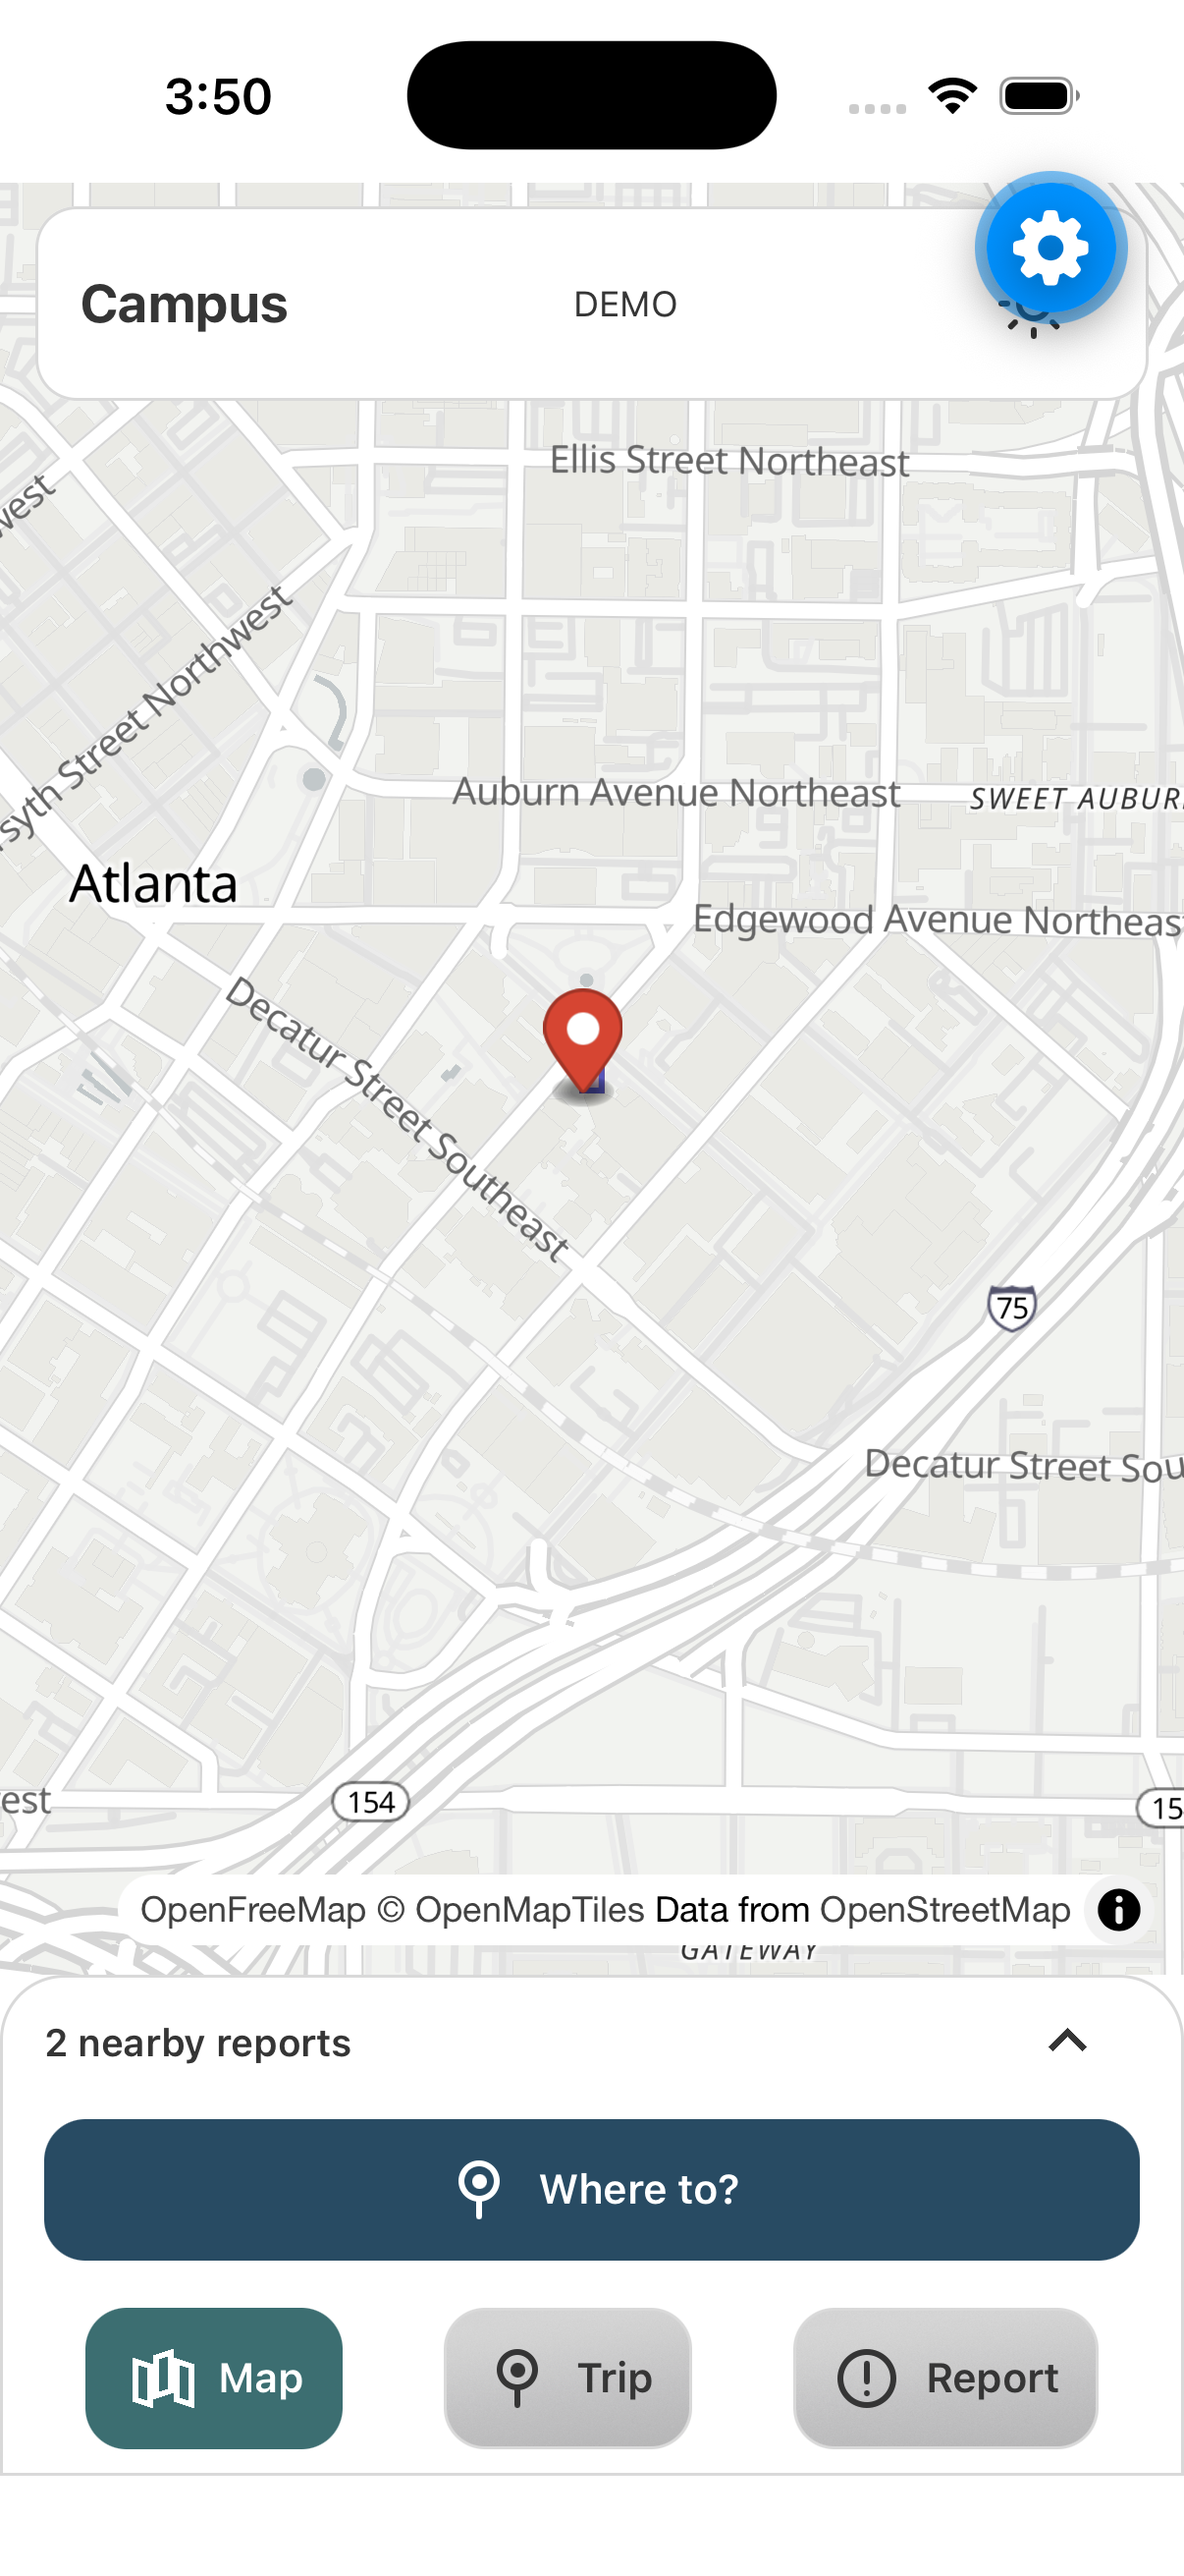
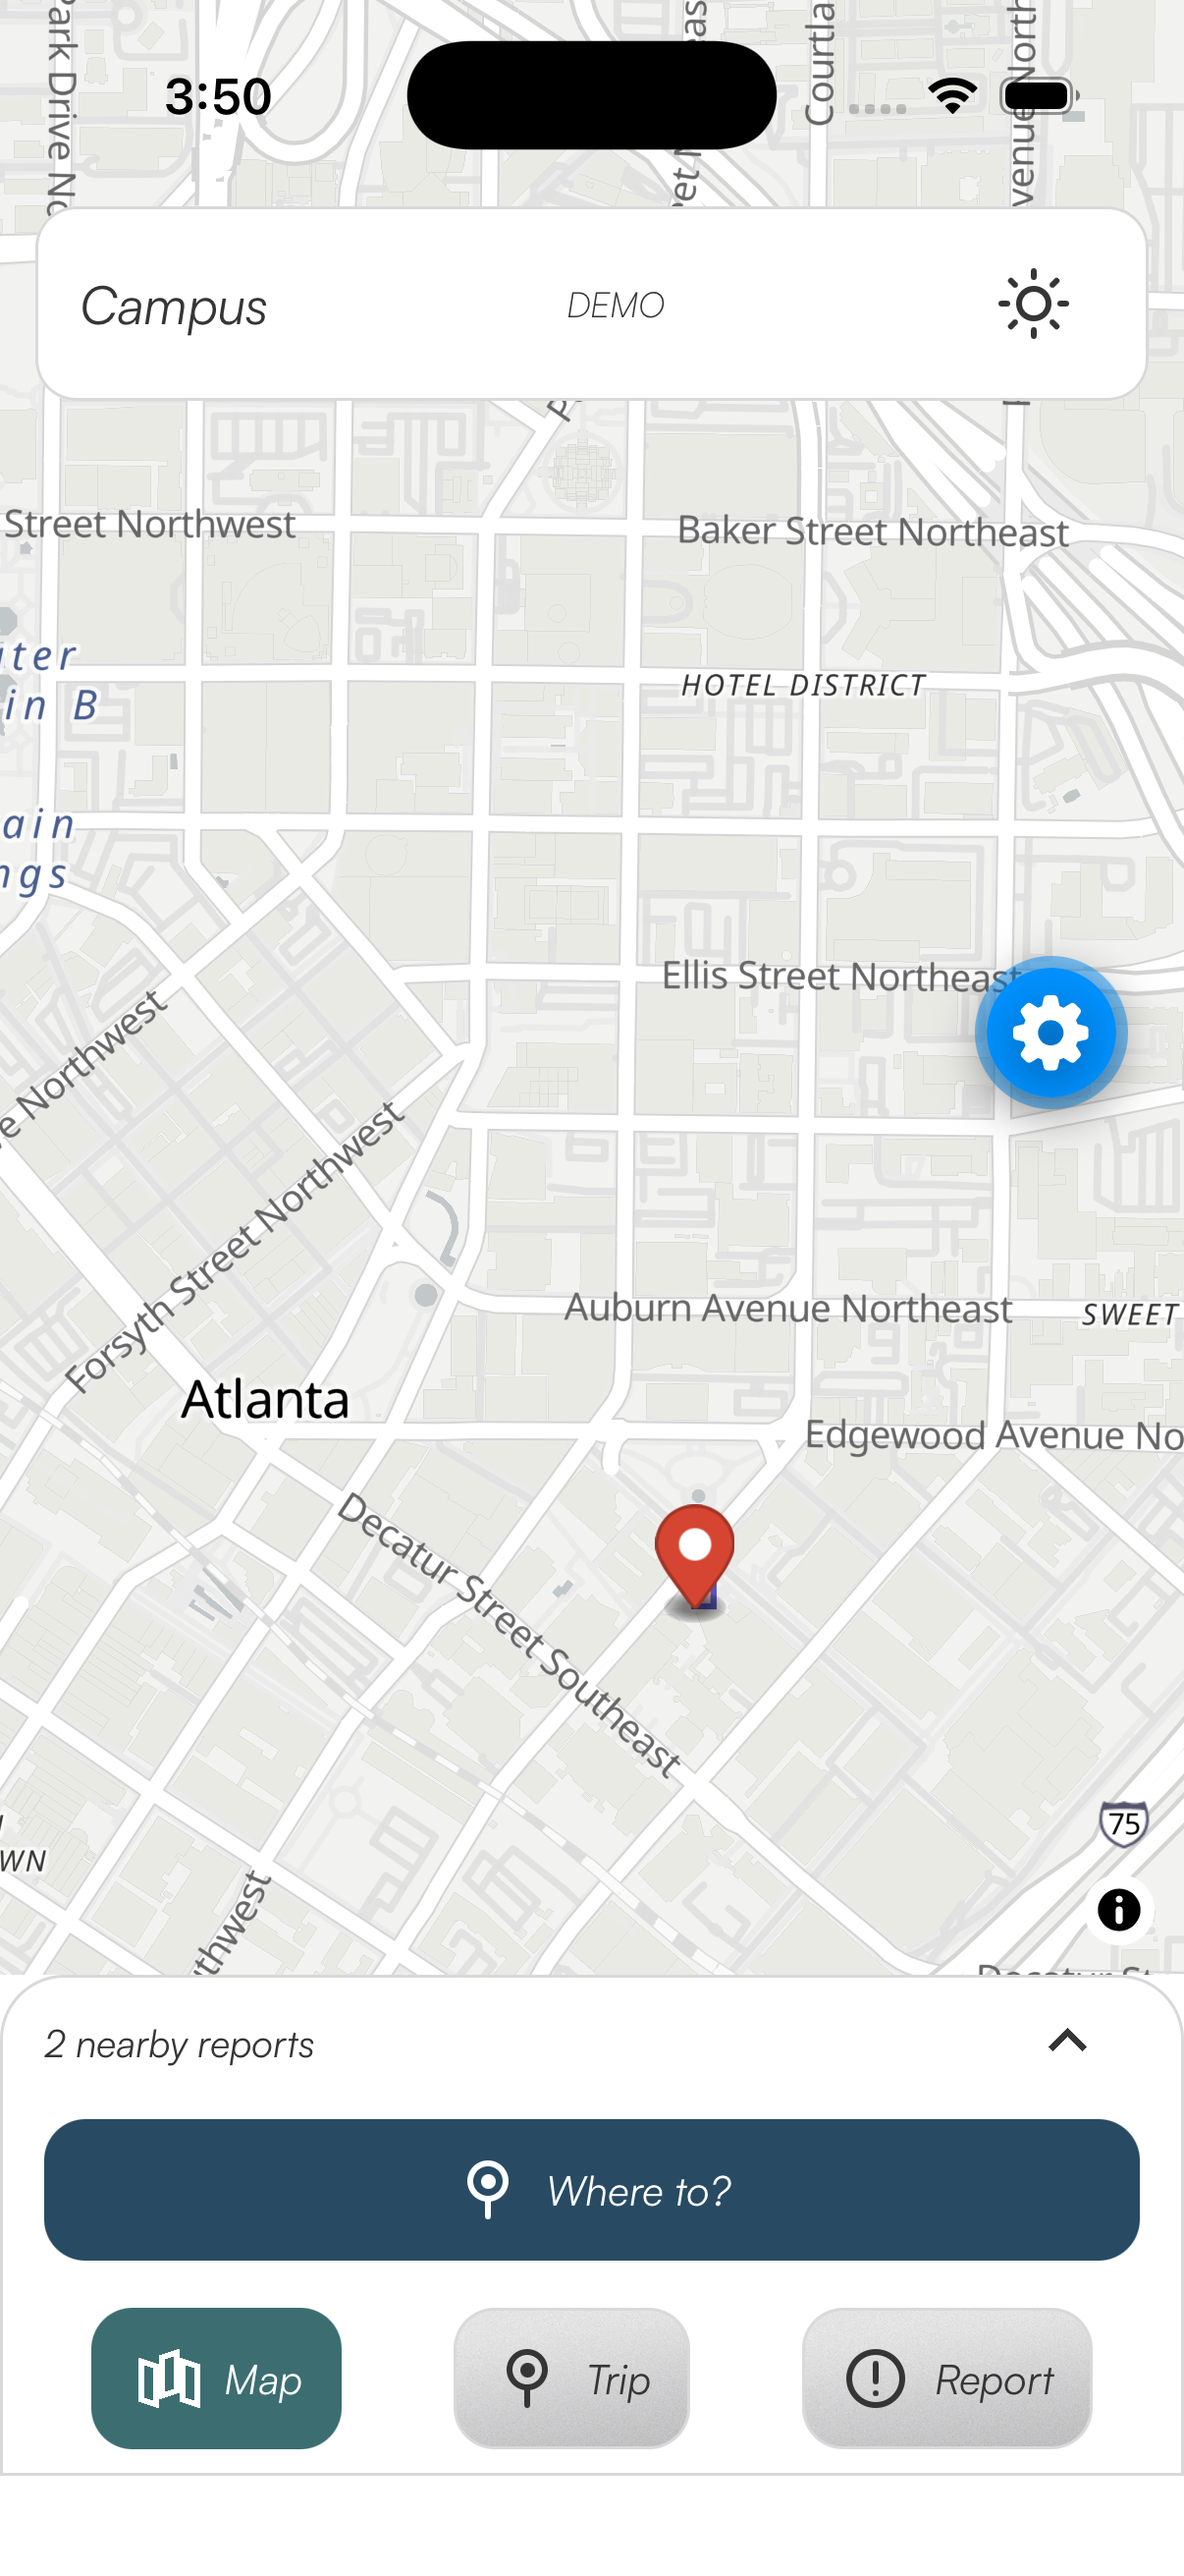
Extend map behind the status bar

diff --git a/mobile/App.tsx b/mobile/App.tsx
@@ -36,6 +36,9 @@ function CampusApp() {
   const [screen, setScreen] = useState<'map'|'report'|'route'>('map');
   const [expanded, setExpanded] = useState(false);
   const [dockHeight, setDockHeight] = useState(220);
+  const [pageHeight, setPageHeight] = useState(0);
+  const [safeFrame, setSafeFrame] = useState({ y: 0, height: 0 });
+  const bottomInset = Math.max(0, pageHeight - safeFrame.y - safeFrame.height);
   function openScreen(next: 'map' | 'report' | 'route') { setScreen(next); setExpanded(false); }
   const mapTheme = colorScheme;
   const ROUTE_COLORS = { ...routeColors(theme), shortest: mapTheme === 'dark' ? palette.silver : palette.charcoal };
@@ -159,11 +162,13 @@ function CampusApp() {
   }
   const latestSubmission = submissions[submissions.length - 1];
   const pendingCount = submissions.filter(sub => sub.state !== 'submitted').length;
-  return <SafeAreaView style={styles.page}>
-    <StatusBar barStyle={colorScheme === 'dark' ? 'light-content' : 'dark-content'} />
-    <KeyboardAvoidingView style={styles.canvas} behavior={Platform.OS === 'ios' ? 'padding' : undefined}>
-    <View style={[styles.map, { bottom: dockHeight }]}><MapLibreView style={{ flex: 1 }} center={CENTER} zoom={INITIAL_ZOOM} theme={mapTheme} overlay={overlay}
+  return <View style={styles.page} onLayout={e => setPageHeight(e.nativeEvent.layout.height)}>
+    <StatusBar barStyle={colorScheme === 'dark' ? 'light-content' : 'dark-content'} translucent backgroundColor="transparent" />
+    <View style={[styles.map, { bottom: dockHeight + bottomInset }]}><MapLibreView style={{ flex: 1 }} center={CENTER} zoom={INITIAL_ZOOM} theme={mapTheme} overlay={overlay}
       onPress={onMapPress} onDragEnd={onMarkerDrag} onBounds={changeRegion} /></View>
+    <SafeAreaView pointerEvents="box-none" style={styles.safeControls}>
+    <KeyboardAvoidingView pointerEvents="box-none" style={styles.canvas} behavior={Platform.OS === 'ios' ? 'padding' : undefined}
+      onLayout={e => { const { y, height } = e.nativeEvent.layout; setSafeFrame({ y, height }); }}>
     <View pointerEvents="box-none" style={styles.overlay}>
       <View style={styles.header}>
         <Text style={styles.title}>Campus</Text>
@@ -232,10 +237,11 @@ function CampusApp() {
       </View>
     </View>
     </KeyboardAvoidingView>
-  </SafeAreaView>;
+    </SafeAreaView>
+  </View>;
 }
 const createStyles = (theme: Theme) => StyleSheet.create({
-  page: { flex: 1, backgroundColor: theme.canvas }, canvas: { flex: 1 },
+  page: { flex: 1, backgroundColor: theme.canvas }, canvas: { flex: 1 }, safeControls: { flex: 1 },
   map: { position: 'absolute', top: 0, right: 0, bottom: 0, left: 0 },
   overlay: { flex: 1, paddingTop: 8 },
   header: { flexDirection: 'row', alignItems: 'center', justifyContent: 'space-between', flexWrap: 'wrap',

diff --git a/mobile/docs/UI-GUIDE.md b/mobile/docs/UI-GUIDE.md
@@ -6,7 +6,9 @@ desktop density and legal-workbench layout do not apply to this app.
 
 ## Map first
 
-The map fills the working screen. A compact header and bottom task panel support it.
+The map extends behind the status bar to the top screen edge. Only the interactive controls
+use the safe area, keeping them below the camera cutout and above the home indicator.
+The measured bottom inset keeps map attribution above the task panel. A compact header and bottom task panel support it.
 The default panel occupies at most 36% of available height; details may expand to 65%
 only by user action. Keep the map touchable around overlays. Provider attribution must
 remain above the panel. The rebased UI uses MapLibre/OpenFreeMap. Its canvas ends above the measured task panel so attribution stays visible. Use the header sun/moon switch to change the UI and Positron/Fiord together without resetting the camera.
